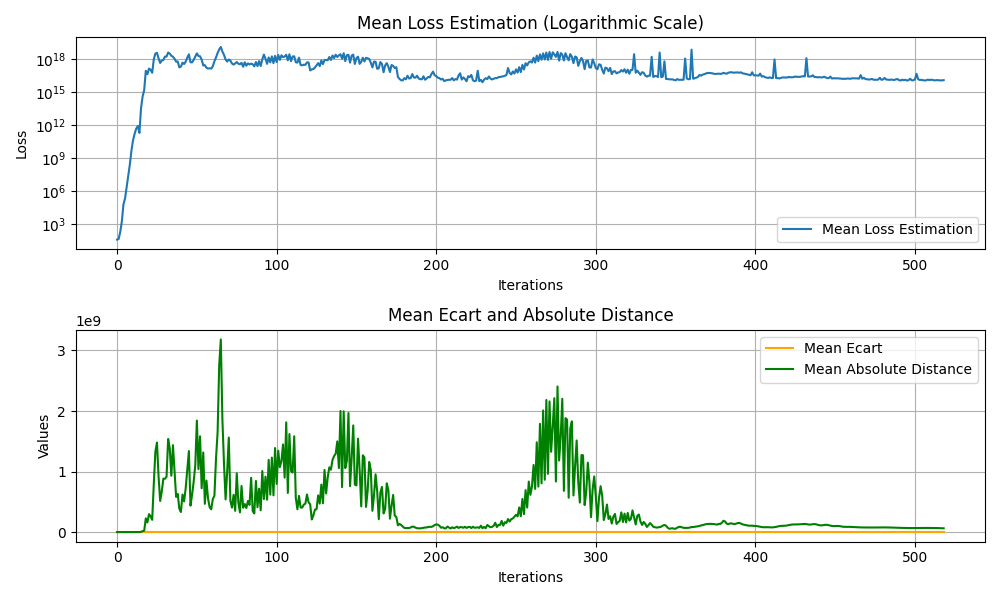
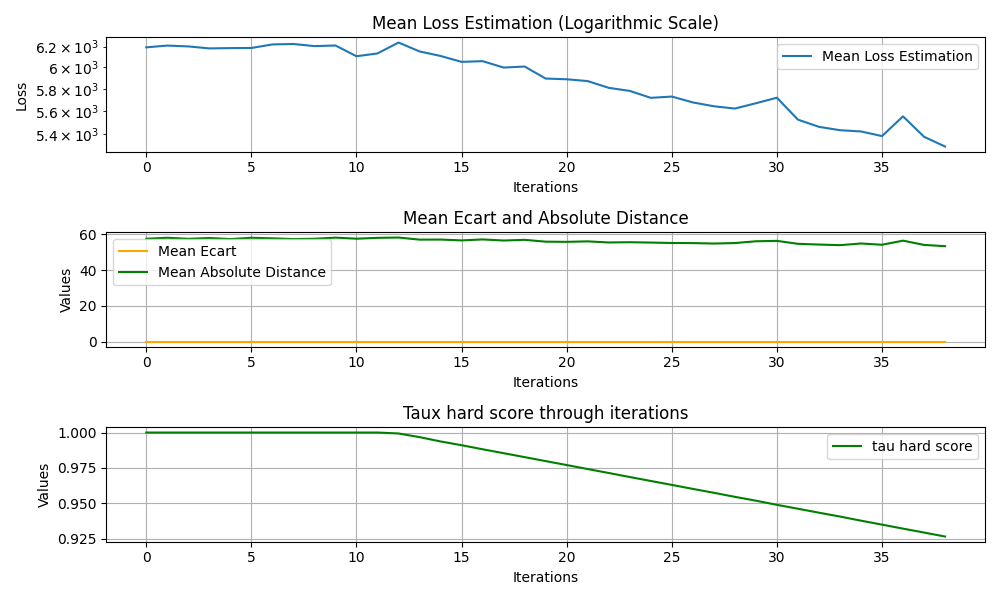
workin v1

diff --git a/evaluator/main.py b/evaluator/main.py
@@ -4,11 +4,12 @@ from utils.training_from_scratch import *
 from utils.graphics import Graphics
 from utils.transform_data import chess_to_data
 
+from random import randint
 import chess
 import tqdm
 
-LEARNING_RATE, BATCH_SIZE, TAU_SMOOTH_NET= 1e-3, 8192, 1e-2
-GN_START, GN_TAU_START, GN_END, GN_TAU_END = 100, 1., 400, .2
+LEARNING_RATE, BATCH_SIZE, TAU_SMOOTH_NET= 1e-4, 8192, 1e-2
+GN_START, GN_TAU_START, GN_END, GN_TAU_END = 2600 + 15*15, 1., 2600+300*15, .2
 
 GN_RATE = (GN_TAU_END - GN_TAU_START)/(GN_END-GN_START)
 
@@ -19,7 +20,7 @@ def get_tau_hard_critic(game_number):
     elif truncated_gn>GN_END:
         return GN_TAU_END
     else:
-        return GN_RATE*truncated_gn
+        return GN_TAU_START+GN_RATE*truncated_gn
          
 def get_real_hard_score(board:chess.Board, board_data):
     if board.is_insufficient_material() or board.is_stalemate():
@@ -29,25 +30,28 @@ def get_real_hard_score(board:chess.Board, board_data):
     else:
         return get_hard_score(board_data)
 
-def get_next_board(board : chess.Board, net):
-
-    resulting_boards_data_input1 = []
-    resulting_boards_data_input2 = []
+def get_next_board(board : chess.Board, net, random=False):
     legal_moves = list(board.legal_moves)
-    
-    for move in legal_moves:
-        board.push(move)
-        input1, input2 = chess_to_data(board)
-        resulting_boards_data_input1.append(input1)
-        resulting_boards_data_input2.append(input2)
-        board.pop()
+    if not random:
+        resulting_boards_data_input1 = []
+        resulting_boards_data_input2 = []
+        
+        for move in legal_moves:
+            board.push(move)
+            input1, input2 = chess_to_data(board)
+            resulting_boards_data_input1.append(input1)
+            resulting_boards_data_input2.append(input2)
+            board.pop()
 
-    resulting_boards_data_input1 = torch.tensor(resulting_boards_data_input1, dtype=torch.float32)
-    resulting_boards_data_input2 = torch.tensor(resulting_boards_data_input2, dtype=torch.float32)
-    
-    scores = net(resulting_boards_data_input1, resulting_boards_data_input2)[:, 0]
-    
-    move = legal_moves[torch.argmax(scores)]
+        resulting_boards_data_input1 = torch.tensor(resulting_boards_data_input1, dtype=torch.float32)
+        resulting_boards_data_input2 = torch.tensor(resulting_boards_data_input2, dtype=torch.float32)
+        
+        scores = net(resulting_boards_data_input1, resulting_boards_data_input2)[:, 0]
+        indice_move=torch.argmax(scores)
+    else:
+        indice_move = randint(0, len(legal_moves)-1)
+        
+    move = legal_moves[indice_move]
     board.push(move)
     
     return board # en soi pas besoin car déjà modifié en place mais pour plus de clareté
@@ -70,9 +74,9 @@ def main():
         game_ended = False
         while not game_ended:
 
-            hard_score=get_real_hard_score(board, current_board_data[1])
+            hard_score=get_real_hard_score(board, current_board_data[0])
 
-            board = get_next_board(board, net)
+            board = get_next_board(board, net, random=(game_number<GN_START+100))
             next_board_data = chess_to_data(board, as_tensor=True)
 
             memory_transition.push(current_board_data[0].unsqueeze(dim=0), current_board_data[1].unsqueeze(dim=0), next_board_data[0].unsqueeze(dim=0), next_board_data[1].unsqueeze(dim=0), hard_score.unsqueeze(dim=0)) # ('initial_board', 'estimated_best_board', 'hard_score'))
@@ -84,7 +88,7 @@ def main():
             
             if len(memory_transition)>50*BATCH_SIZE and board.fullmove_number%40==0:
                 loss_estimation, ecart, absolute_distance=optimize(model=net, model_smooth=smooth_net, optimizer=optimizer, memory=memory_transition, BATCH_SIZE=BATCH_SIZE, TAU_HARD=tau_hard_critic)
-                graphics.add(loss_estimation, ecart, absolute_distance)
+                graphics.add(loss_estimation, ecart, absolute_distance, tau_hard_score=tau_hard_critic)
                 soft_update(net=net, smooth_net=smooth_net, TAU=TAU_SMOOTH_NET)
                 
         

diff --git a/evaluator/utils/graphics.py b/evaluator/utils/graphics.py
@@ -6,11 +6,14 @@ class Graphics:
         self.current_somme_loss_estimation = 0
         self.current_somme_ecart = 0
         self.current_somme_absolute_distance = 0
+        self.current_somme_tau_hard_score = 0
+        
         self.current_num_iteration = 0
 
         self.liste_mean_loss_estimation = []
         self.liste_mean_ecart = []
         self.liste_mean_absolute_distance = []
+        self.liste_tau_hard_score = []
 
     def save(self, filename):
         """
@@ -32,10 +35,11 @@ class Graphics:
         print(f"Graphics object reloaded from {filename}")
         return obj
     
-    def add(self, loss_estimation, ecart, absolute_distance):
+    def add(self, loss_estimation, ecart, absolute_distance, tau_hard_score):
         self.current_somme_loss_estimation += loss_estimation
         self.current_somme_ecart += ecart
         self.current_somme_absolute_distance += absolute_distance
+        self.current_somme_tau_hard_score += tau_hard_score
         self.current_num_iteration += 1
 
     def push(self):
@@ -45,10 +49,12 @@ class Graphics:
             self.liste_mean_loss_estimation.append(self.current_somme_loss_estimation / self.current_num_iteration)
             self.liste_mean_absolute_distance.append(self.current_somme_absolute_distance / self.current_num_iteration)
             self.liste_mean_ecart.append(self.current_somme_ecart / self.current_num_iteration)
-
+            self.liste_tau_hard_score.append(self.current_somme_tau_hard_score / self.current_num_iteration)
+            
             self.current_somme_loss_estimation = 0
             self.current_somme_ecart = 0
             self.current_somme_absolute_distance = 0
+            self.current_somme_tau_hard_score = 0            
             self.current_num_iteration = 0
 
     def save_plot(self, filename):
@@ -59,7 +65,7 @@ class Graphics:
         plt.figure(figsize=(10, 6))
 
         # Tracé de la loss estimation avec un axe Y logarithmique
-        plt.subplot(2, 1, 1)
+        plt.subplot(3, 1, 1)
         plt.plot(self.liste_mean_loss_estimation, label="Mean Loss Estimation")
         plt.yscale('log')
         plt.title("Mean Loss Estimation (Logarithmic Scale)")
@@ -69,10 +75,18 @@ class Graphics:
         plt.grid(True)
 
         # Tracé des autres métriques
-        plt.subplot(2, 1, 2)
+        plt.subplot(3, 1, 2)
         plt.plot(self.liste_mean_ecart, label="Mean Ecart", color="orange")
         plt.plot(self.liste_mean_absolute_distance, label="Mean Absolute Distance", color="green")
         plt.title("Mean Ecart and Absolute Distance")
+        plt.xlabel("Iterations")
+        plt.ylabel("Values")
+        plt.legend()
+        plt.grid(True)
+        
+        plt.subplot(3, 1, 3)
+        plt.plot(self.liste_tau_hard_score, label="tau hard score", color="green")
+        plt.title("Taux hard score through iterations")
         plt.xlabel("Iterations")
         plt.ylabel("Values")
         plt.legend()

diff --git a/evaluator/utils/training_from_scratch.py b/evaluator/utils/training_from_scratch.py
@@ -56,7 +56,7 @@ def optimize(model: nn.ModuleDict, model_smooth: nn.ModuleDict, optimizer:optim.
     estimation, estimation_95, estimation_05 = evaluation[:, 0:1], evaluation[:, 1:2], evaluation[:, 2:3]
     
     criterion = nn.MSELoss()
-    loss_estimation = criterion(estimation, -smooth_score_adversaire)# score du joueur = - score de l'adversaire ! 
+    loss_estimation = criterion(estimation, smooth_score_adversaire)
     if only_estimation:
         total_loss = loss_estimation
         ecart=0
